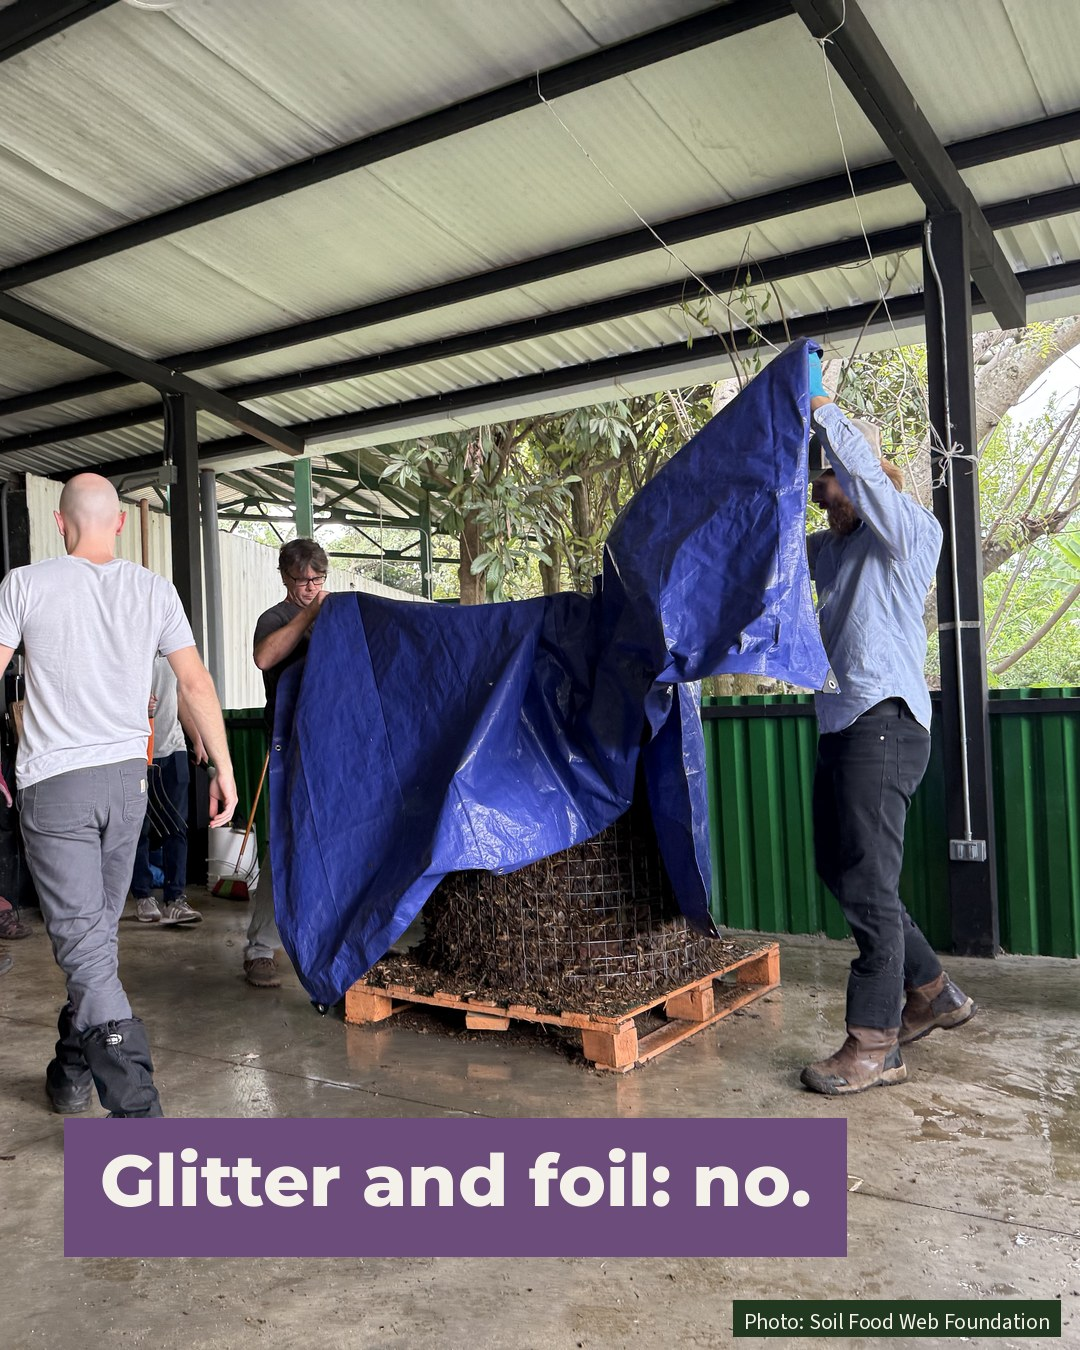
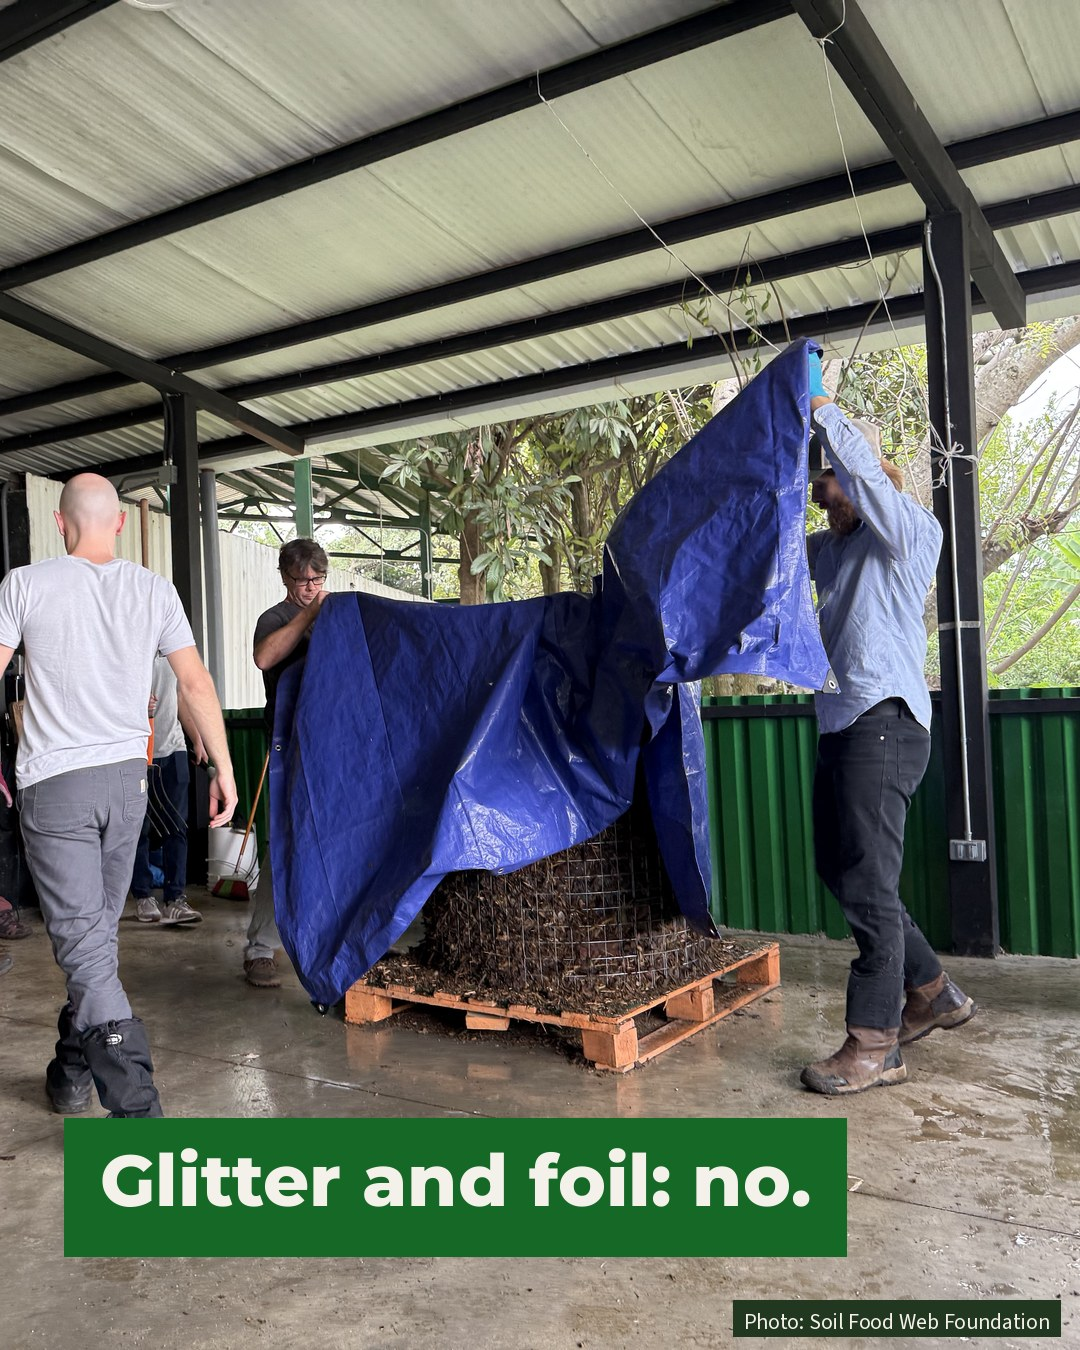
Wormhole: all catalog photo proposals (not wired to posts until Linnea picks)
Claude-Session: https://claude.ai/code/session_018A29M1VaZtWat5nvQRGvvX

Changed region(s): [[0.0611, 0.8089, 0.7944, 0.9333]]

diff --git a/tools/wormhole-visuals/catalog_c.py b/tools/wormhole-visuals/catalog_c.py
@@ -39,7 +39,7 @@ POSTS = {
         1: pic("Cardboard trick for stacking buckets -IMG_5829.jpg", "Plain paper: yes.", G, focus=(0.5, 0.5), logo=True),
         3: pic("20250304_130733.jpg", "Tear it small.", BL, focus=(0.5, 0.45)),
         4: pic("20250624_170325(1).jpg", None),
-        5: pic("IMG_4440.jpg", "Glitter and foil: no.", P, focus=(0.72, 0.5)),
+        5: pic("IMG_4440.jpg", "Glitter and foil: no.", G, focus=(0.72, 0.5)),
     },
     "x20261227": lambda: {
         1: pic("20250620_153349.jpg", "Chop and drop.", G, logo=True, size=90),

diff --git a/tools/wormhole-visuals/catalog_b.py b/tools/wormhole-visuals/catalog_b.py
@@ -47,7 +47,7 @@ POSTS = {
         2: lambda: pic("PXL_20240716_224324982 HandsInSoil.jpg", "Volunteer with us", BR, where="top", focus=(0.5, 0.6)),
     },
     "w20261206": {
-        1: lambda: pic("IMG_4305.jpg", "Not sure where to start?", P, focus=(0.5, 0.55), logo=True),
+        1: lambda: pic("IMG_4305.jpg", "Not sure where to start?", G, focus=(0.5, 0.55), logo=True),
         3: lambda: pic("20250305_135420.jpg", "Find your path.", G, focus=(0.68, 0.5)),
     },
     "x20261208": {
